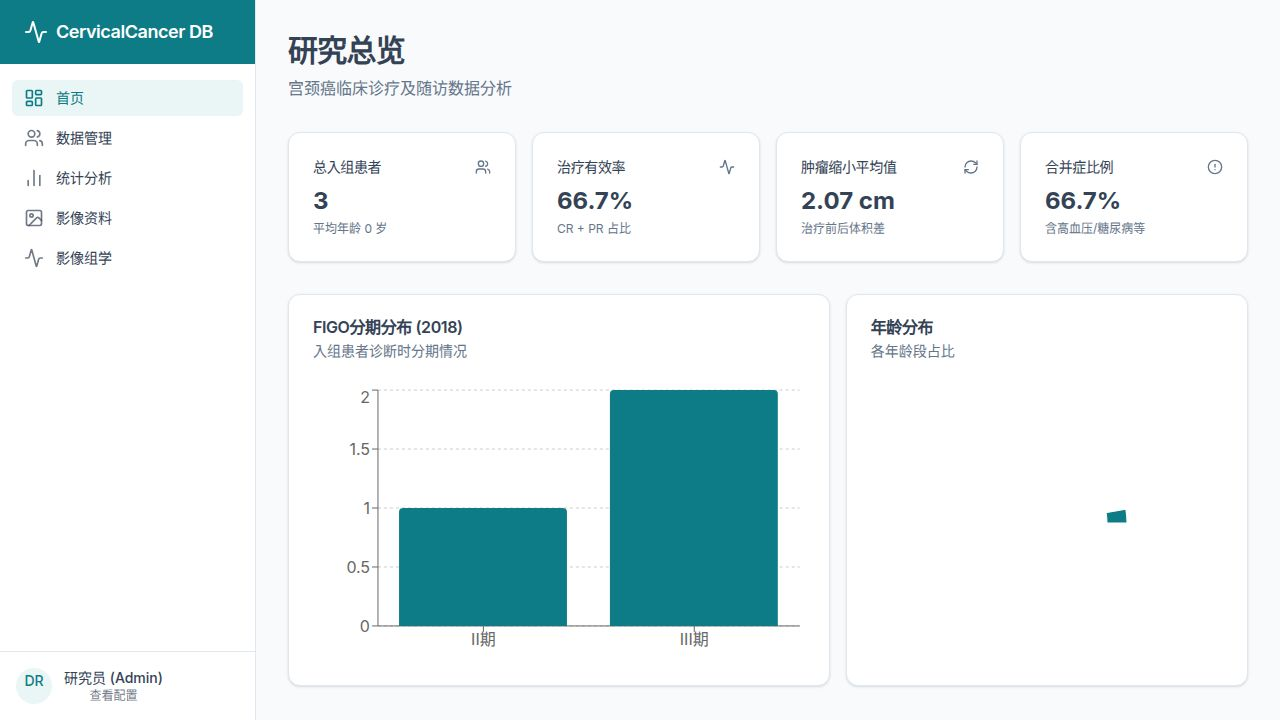
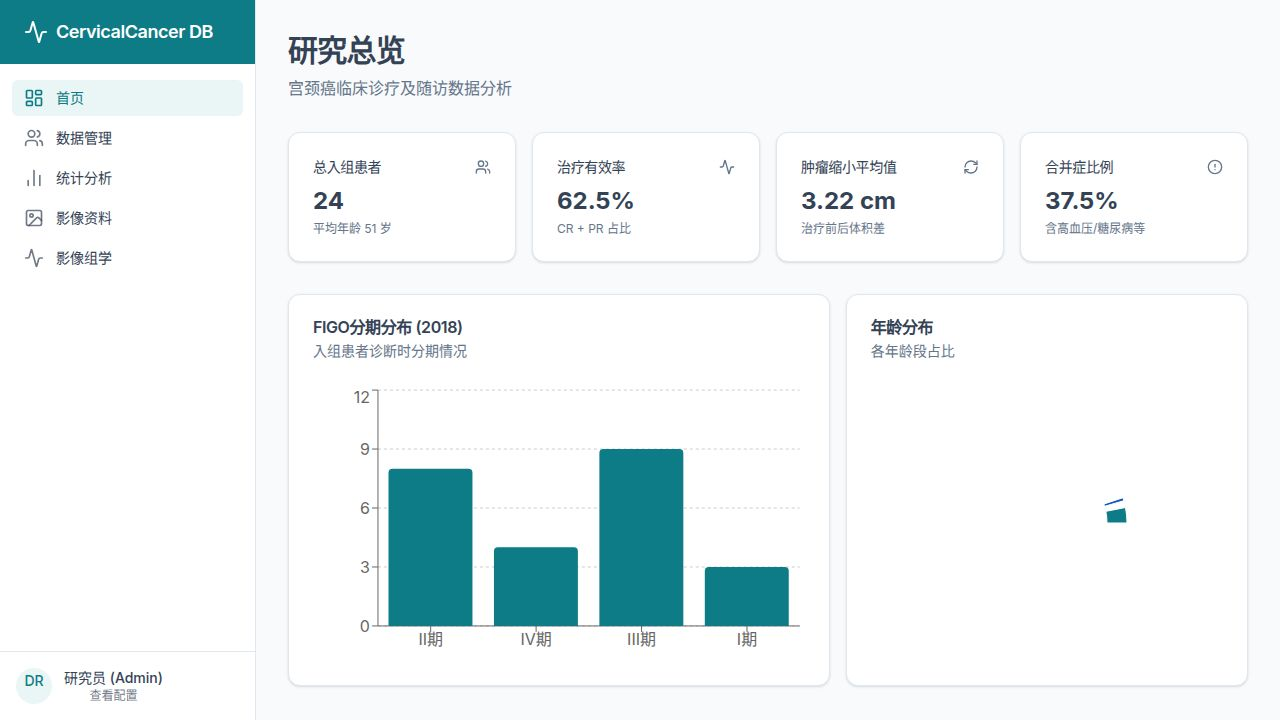
Fix issues with missing data and chart rendering on the portal
Update age distribution logic in statistics API, adjust chart colors, and disable pie chart animations for better display.

Replit-Commit-Author: Agent
Replit-Commit-Session-Id: b48a39fa-a75f-4e83-a67c-b7577b488cac
Replit-Commit-Checkpoint-Type: full_checkpoint
Replit-Commit-Event-Id: 626fa7bb-0769-4944-88ed-dd727e3f0c1d
Replit-Commit-Screenshot-Url: https://storage.googleapis.com/screenshot-production-us-central1/1f39ab39-77a3-4706-9ce0-229d07168496/b48a39fa-a75f-4e83-a67c-b7577b488cac/XqPDRO5
Replit-Helium-Checkpoint-Created: true

diff --git a/artifacts/medical-portal/src/pages/statistics.tsx b/artifacts/medical-portal/src/pages/statistics.tsx
@@ -68,7 +68,7 @@ export default function Statistics() {
             <CardContent>
               <ResponsiveContainer width="100%" height={250}>
                 <PieChart>
-                  <Pie data={ageDist ?? []} dataKey="value" nameKey="name" cx="50%" cy="50%" outerRadius={90} label={({ name, value }) => `${name}: ${value}`}>
+                  <Pie data={ageDist ?? []} dataKey="value" nameKey="name" cx="50%" cy="50%" outerRadius={90} isAnimationActive={false} label={({ name, value }) => `${name}: ${value}`}>
                     {(ageDist ?? []).map((_, i) => (
                       <Cell key={i} fill={COLORS[i % COLORS.length]} />
                     ))}
@@ -103,7 +103,7 @@ export default function Statistics() {
             <CardContent>
               <ResponsiveContainer width="100%" height={250}>
                 <PieChart>
-                  <Pie data={pathDist ?? []} dataKey="value" nameKey="name" cx="50%" cy="50%" outerRadius={90} label={({ name, value }) => `${name}: ${value}`}>
+                  <Pie data={pathDist ?? []} dataKey="value" nameKey="name" cx="50%" cy="50%" outerRadius={90} isAnimationActive={false} label={({ name, value }) => `${name}: ${value}`}>
                     {(pathDist ?? []).map((_, i) => (
                       <Cell key={i} fill={COLORS[i % COLORS.length]} />
                     ))}
@@ -121,7 +121,7 @@ export default function Statistics() {
             <CardContent>
               <ResponsiveContainer width="100%" height={250}>
                 <PieChart>
-                  <Pie data={outcomeDist ?? []} dataKey="value" nameKey="name" cx="50%" cy="50%" outerRadius={90} label={({ name, value }) => `${name}: ${value}`}>
+                  <Pie data={outcomeDist ?? []} dataKey="value" nameKey="name" cx="50%" cy="50%" outerRadius={90} isAnimationActive={false} label={({ name, value }) => `${name}: ${value}`}>
                     {(outcomeDist ?? []).map((_, i) => (
                       <Cell key={i} fill={COLORS[i % COLORS.length]} />
                     ))}

diff --git a/artifacts/api-server/src/routes/statistics.ts b/artifacts/api-server/src/routes/statistics.ts
@@ -65,20 +65,20 @@ router.get("/statistics/age-distribution", async (_req, res): Promise<void> => {
   const rows = await db
     .select({
       ageGroup: sql<string>`case 
-        when ${patientsTable.age} = 0 then '<=40'
-        when ${patientsTable.age} = 1 then '>40'
+        when ${patientsTable.age} <= 40 then '<=40'
+        when ${patientsTable.age} > 40 then '>40'
         else 'Unknown'
       end`,
       count: count(),
     })
     .from(patientsTable)
     .groupBy(sql`case 
-      when ${patientsTable.age} = 0 then '<=40'
-      when ${patientsTable.age} = 1 then '>40'
+      when ${patientsTable.age} <= 40 then '<=40'
+      when ${patientsTable.age} > 40 then '>40'
       else 'Unknown'
     end`);
 
-  res.json(rows.map((r) => ({ name: r.ageGroup, value: r.count })));
+  res.json(rows.map((r) => ({ name: r.ageGroup, value: Number(r.count) })));
 });
 
 router.get("/statistics/stage-distribution", async (_req, res): Promise<void> => {
@@ -100,7 +100,7 @@ router.get("/statistics/stage-distribution", async (_req, res): Promise<void> =>
   res.json(
     rows.map((r) => ({
       name: stageMap[r.stage ?? ""] ?? r.stage ?? "Unknown",
-      value: r.count,
+      value: Number(r.count),
     }))
   );
 });
@@ -122,7 +122,7 @@ router.get("/statistics/pathology-distribution", async (_req, res): Promise<void
   res.json(
     rows.map((r) => ({
       name: pathMap[r.type ?? -1] ?? `Type ${r.type}`,
-      value: r.count,
+      value: Number(r.count),
     }))
   );
 });
@@ -144,7 +144,7 @@ router.get("/statistics/treatment-outcome", async (_req, res): Promise<void> => 
   res.json(
     rows.map((r) => ({
       name: outcomeMap[r.outcome ?? -1] ?? `Outcome ${r.outcome}`,
-      value: r.count,
+      value: Number(r.count),
     }))
   );
 });

diff --git a/artifacts/medical-portal/src/pages/dashboard.tsx b/artifacts/medical-portal/src/pages/dashboard.tsx
@@ -4,7 +4,7 @@ import { Card, CardContent, CardDescription, CardHeader, CardTitle } from "@/com
 import { Users, Activity, AlertCircle, RefreshCw, Layers } from "lucide-react";
 import { PieChart, Pie, Cell, ResponsiveContainer, Tooltip, BarChart, Bar, XAxis, YAxis, CartesianGrid } from "recharts";
 
-const COLORS = ['hsl(var(--chart-1))', 'hsl(var(--chart-2))', 'hsl(var(--chart-3))', 'hsl(var(--chart-4))', 'hsl(var(--chart-5))'];
+const COLORS = ['hsl(185, 81%, 29%)', 'hsl(200, 65%, 45%)', 'hsl(40, 85%, 55%)', 'hsl(340, 70%, 55%)', 'hsl(130, 50%, 45%)'];
 
 export default function Dashboard() {
   const { data: overview, isLoading: overviewLoading } = useGetStatisticsOverview();
@@ -119,6 +119,7 @@ export default function Dashboard() {
                       outerRadius={80}
                       paddingAngle={5}
                       dataKey="value"
+                      isAnimationActive={false}
                     >
                       {ageDist.map((entry, index) => (
                         <Cell key={`cell-${index}`} fill={COLORS[index % COLORS.length]} />

diff --git a/artifacts/medical-portal/src/pages/patients.tsx b/artifacts/medical-portal/src/pages/patients.tsx
@@ -258,7 +258,7 @@ export default function Patients() {
                           <td className="py-3 px-2">{p.sequenceNumber}</td>
                           <td className="py-3 px-2 font-mono text-xs">{p.caseNumber}</td>
                           <td className="py-3 px-2 font-medium">{p.patientName}</td>
-                          <td className="py-3 px-2">{p.age === 0 ? "<=40" : ">40"}</td>
+                          <td className="py-3 px-2">{p.age}</td>
                           <td className="py-3 px-2">
                             <span className="inline-flex items-center rounded-full px-2 py-0.5 text-xs font-medium bg-primary/10 text-primary">
                               {stageMap[p.figoStage2018 ?? ""] ?? p.figoStage2018 ?? "-"}

diff --git a/replit.md b/replit.md
@@ -2,7 +2,7 @@
 
 ## Overview
 
-pnpm workspace monorepo using TypeScript. Each package manages its own dependencies.
+pnpm workspace monorepo using TypeScript. The main product is a medical imaging research portal for cervical cancer clinical, imaging, statistics, and radiomics data management.
 
 ## Stack
 
@@ -14,7 +14,23 @@ pnpm workspace monorepo using TypeScript. Each package manages its own dependenc
 - **Database**: PostgreSQL + Drizzle ORM
 - **Validation**: Zod (`zod/v4`), `drizzle-zod`
 - **API codegen**: Orval (from OpenAPI spec)
-- **Build**: esbuild (CJS bundle)
+- **Build**: esbuild for API, Vite for web
+
+## Artifacts
+
+- `artifacts/medical-portal`: React/Vite web UI at `/`
+- `artifacts/api-server`: Express API at `/api`
+- `artifacts/mockup-sandbox`: canvas component preview environment
+
+## Database
+
+The development PostgreSQL schema contains:
+
+- `patients`
+- `imaging_records`
+- `radiomics_features`
+
+The development database has anonymized sample records so dashboard, statistics, imaging, and radiomics views render immediately before real Excel imports are added.
 
 ## Key Commands
 
